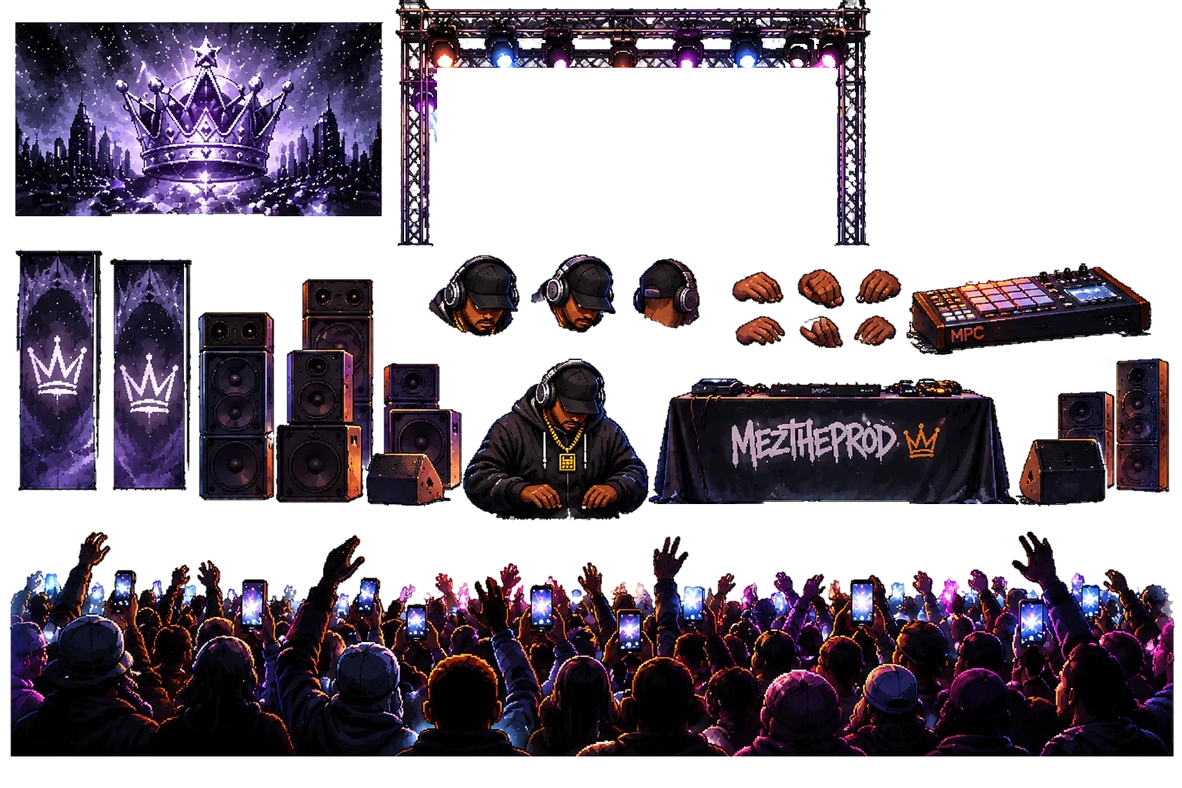
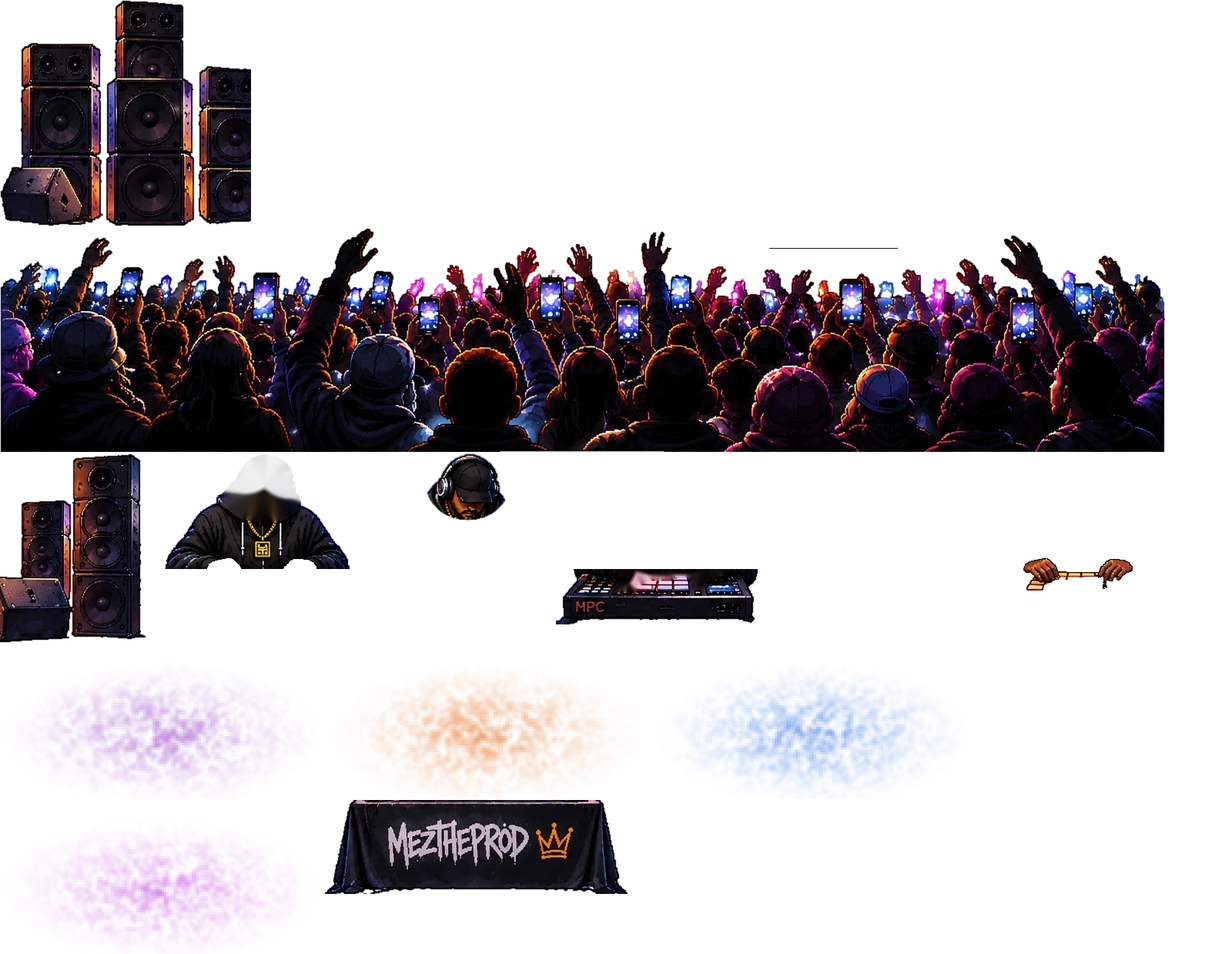
Show: 16:9 scene on the new stage plate, producer split into head/torso/hands/MPC layers, smoke sprites, haze, contact shadows

diff --git a/show.js b/show.js
@@ -4,7 +4,7 @@
    Shared by the SHOW page, the back office Show Maker preview, and the video renderer. */
 (function(){
 'use strict';
-const W=1092,H=790;
+const W=1280,H=720;
 const clamp=(v,a,b)=>Math.max(a,Math.min(b,v)),lerp=(a,b,t)=>a+(b-a)*t;
 function mulberry(a){return()=>{a|=0;a=a+0x6D2B79F5|0;let t=Math.imul(a^a>>>15,1|a);t=t+Math.imul(t^t>>>7,61|t)^t;return((t^t>>>14)>>>0)/4294967296}}
 const fmt=s=>{s=Math.max(0,Math.floor(s));return Math.floor(s/60)+':'+String(s%60).padStart(2,'0')};
@@ -131,48 +131,40 @@ function makeStage(canvas,seed){
  const st={t:0,cam:{z:1,x:0,y:0},energy:.1,cheer:0,nod:0,bounce:0,flash:0,shake:0,hands:[0,0],pads:new Float32Array(12),hearts:0,
   hue:230,fireworks:[],confetti:[],lastHit:-1,hitIdx:0,lastCutBar:-1,lastDrop:-1,fogP:[],endT:-1,lastStartTrack:-2};
  /* a fresh random front-row crowd every time */
- for(let i=0;i<22;i++)st.fogP.push({x:R()*W,y:420+R()*190,r:90+R()*150,vx:(R()-.5)*14,a:.05+R()*.07});
- const L={},C={},seedP=R()*6.28;st.colUp=new Float32Array(160);
- /* the stage is built from the real separate pieces of the artwork sheet (one atlas image) */
- const TR={x:17,y:0,s:1.7},SCR={x:226,y:150,w:640,h:341},SPK={x:-6,b:572,s:.95},MON={x:880,b:572,s:.95},TBL={x:246,y:452,s:1.25},MPCP={x:452,y:432,s:.56},BODY={x:392,b:516,s:1.25},CRW={x:-11,y:585},FXH=[28,215,300,24,296,214,312,300];
- const FIX=[577,651,725,809,892,968,1037].map(sx=>[TR.x+(sx-510)*TR.s,TR.y+74*TR.s]).concat([[TR.x+(1060-510)*TR.s,TR.y+112*TR.s]]);
+ for(let i=0;i<20;i++){const back=i<7;st.fogP.push({back,x:R()*(W+400)-200,y:back?405+R()*55:478+R()*52,s:back?1+R()*.6:1.1+R()*.8,vx:(R()<.5?-1:1)*(5+R()*12),a:back?.4+R()*.2:.5+R()*.25,k:(R()*4)|0,ph:R()*6.28})}
+ const L={},C={},seedP=R()*6.28;st.colUp=new Float32Array(200);
+ /* ---- the show scene: your empty stage plate + the separate pieces from the layer sheet ---- */
+ const PS=W/1672,SCR={x:438,y:136,w:433,h:287},BODY={x:482,y:179,s:1.2},TBL={x:404,y:429,s:1.2},SPK={x:52,b:612,s:.95},MON={x:994,b:612,s:.95},CRW={x:-19,y:485,s:.871};
+ const FIX=[[80,90,320],[345,85,285],[450,95,30],[568,95,212],[1070,95,212],[1192,95,30],[1338,85,285],[1600,90,205]].map(([x,y,h])=>[x*PS,y*PS,h]);
+ const LAS=[[330*PS,662*PS,-1],[1370*PS,662*PS,1]];
  function layersFor(theme){
   if(!S.plate)return null;if(L[theme])return L[theme];
-  const f=VARIANT[theme]||'',im=S.plate.atlas,o=document.createElement('canvas');o.width=im.naturalWidth;o.height=im.naturalHeight;const g=o.getContext('2d');g.filter=f;g.drawImage(im,0,0);return L[theme]=o;
+  const f=VARIANT[theme]||'',mk=im=>{const o=document.createElement('canvas');o.width=im.naturalWidth;o.height=im.naturalHeight;const g=o.getContext('2d');g.filter=f;g.drawImage(im,0,0);return o},P=S.plate;
+  return L[theme]={atlas:mk(P.atlas),stage:mk(P.stage),lights:mk(P.lights)};
  }
- const rc=(g,A,r,x,y,sc,flip)=>{if(flip){g.save();g.translate(x+r[2]*sc,y);g.scale(-1,1);g.drawImage(A,r[0],r[1],r[2],r[3],0,0,r[2]*sc,r[3]*sc);g.restore()}else g.drawImage(A,r[0],r[1],r[2],r[3],x,y,r[2]*sc,r[3]*sc)};
- function backdrop(g){const gr=g.createLinearGradient(0,0,0,H);gr.addColorStop(0,'#0d0820');gr.addColorStop(.55,'#070511');gr.addColorStop(1,'#030208');g.fillStyle=gr;g.fillRect(0,0,W,H);
-  const fl=g.createLinearGradient(0,440,0,610);fl.addColorStop(0,'rgba(90,50,140,0)');fl.addColorStop(1,'rgba(70,34,110,.4)');g.fillStyle=fl;g.fillRect(0,440,W,170)}
- function stageBack(g,A,M,pump){
-  backdrop(g);
-  rc(g,A,M.screen,SCR.x,SCR.y,SCR.w/M.screen[2]);
-  rc(g,A,M.banners[0],176,112,.9);rc(g,A,M.banners[1],W-176-M.banners[1][2]*.9,116,.9);
-  rc(g,A,M.truss,TR.x,TR.y,TR.s);
-  pump=pump||0;
-  {const r=M.speakers,sc=SPK.s*(1+pump*.1),w=r[2]*sc,h=r[3]*sc;rc(g,A,r,SPK.x+(r[2]*SPK.s-w)/2,SPK.b-h,sc)}
-  {const r=M.monitors,sc=MON.s*(1+pump*.1),w=r[2]*sc,h=r[3]*sc;rc(g,A,r,MON.x+(r[2]*MON.s-w)/2,MON.b-h,sc)}
+ const pc=(g,A,k,x,y,sc)=>{const r=S.plate.meta.r[k];g.drawImage(A,r[0],r[1],r[2],r[3],x,y,r[2]*sc,r[3]*sc)};
+ const sz=k=>S.plate.meta.r[k];
+ function stageBase(g,Ly){g.drawImage(Ly.stage,0,0,W,H)}
+ function speakers(g,A,pump){
+  pump=pump||0;{const r=sz('speakers'),sc=SPK.s*(1+pump*.05);pc(g,A,'speakers',SPK.x+r[2]*(SPK.s-sc)/2,SPK.b-r[3]*sc,sc)}
+  {const r=sz('monitors'),sc=MON.s*(1+pump*.05);pc(g,A,'monitors',MON.x+r[2]*(MON.s-sc)/2,MON.b-r[3]*sc,sc)}
  }
- const PADW=p=>{const c=p%4,r=(p/4)|0;return[MPCP.x+(66+(c+.5)*27.4-r*2)*MPCP.s,MPCP.y+(34+(r+.5)*17)*MPCP.s]};
- function producer(g,A,M,po){
-  po=po||{bounce:0,nod:0,hands:[0,0],pads:null,hue:230};
-  /* table with the logo cloth, then the producer behind the pad */
-  rc(g,A,M.table,TBL.x,TBL.y,TBL.s);
-  {const r=M.body,sc=BODY.s,bw=r[2]*sc,bh=r[3]*sc,bx=BODY.x,by=BODY.b-bh,cutS=96;
-   g.save();g.translate(0,BODY.b);g.scale(1,1+po.bounce*.018);g.translate(0,-BODY.b);
-   g.drawImage(A,r[0],r[1]+cutS,r[2],r[3]-cutS,bx,by+cutS*sc,bw,(r[3]-cutS)*sc);
-   g.translate(bx+bw/2,by+cutS*sc);g.rotate(po.nod*.045);g.drawImage(A,r[0],r[1],r[2],cutS+5,-bw/2,-cutS*sc,bw,(cutS+5)*sc);g.restore()}
-  rc(g,A,M.mpc,MPCP.x,MPCP.y,MPCP.s);
-  if(po.pads){g.save();g.globalCompositeOperation='lighter';for(let p=0;p<12;p++){const a=po.pads[p];if(a<.04)continue;const[hx,hy]=PADW(p),gr=g.createRadialGradient(hx,hy,0,hx,hy,17);gr.addColorStop(0,`hsla(${(p*47+po.hue)%360},100%,72%,${Math.min(1,a*1.1)})`);gr.addColorStop(1,'rgba(0,0,0,0)');g.fillStyle=gr;g.fillRect(hx-17,hy-17,34,34)}g.restore()}
-  /* hands: two poses each, a press drops the hand onto the pads */
-  const hs=.54,hw=po.hands,pick=(row,a)=>row[a>.55?1:a>.2?2:0];
-  {const L2=pick(M.handsB,hw[0]),R2=pick(M.handsT,hw[1]);
-   const lx=MPCP.x+96*MPCP.s,rx=MPCP.x+148*MPCP.s,hy=MPCP.y+(36+hw[0]*8)*MPCP.s,hy2=MPCP.y+(36+hw[1]*8)*MPCP.s;
-   rc(g,A,L2,lx-L2[2]*hs/2,hy-L2[3]*hs/2,hs);rc(g,A,R2,rx-R2[2]*hs/2,hy2-R2[3]*hs/2,hs)}
+ /* MPC pads (4 x 3 visible) in the producer piece's own pixels */
+ const PADW=p=>{const c=p%4,r=(p/4)|0;return[BODY.x+(92+c*21)*BODY.s,BODY.y+(156+r*8)*BODY.s]};
+ function producer(g,A,po){
+  po=po||{bounce:0,nod:0,hands:[0,0],pads:null,hue:230,t:0};
+  pc(g,A,'table',TBL.x,TBL.y,TBL.s);
+  const bs=BODY.s,dy=po.bounce*2.4;
+  pc(g,A,'torso',BODY.x,BODY.y+dy,bs);
+  {const px=BODY.x+150*bs,py=BODY.y+dy+86*bs,r=sz('head');g.save();g.translate(px,py+po.nod*2.2);g.rotate(po.nod*.06+Math.sin(po.t*1.3)*.012);g.drawImage(A,r[0],r[1],r[2],r[3],-150*bs,-86*bs,r[2]*bs,r[3]*bs);g.restore()}
+  pc(g,A,'mpc',BODY.x,BODY.y,bs);
+  if(po.pads){g.save();g.globalCompositeOperation='lighter';for(let p=0;p<12;p++){const a=po.pads[p];if(a<.04)continue;const[hx,hy]=PADW(p),gr=g.createRadialGradient(hx,hy,0,hx,hy,15);gr.addColorStop(0,`hsla(${(p*47+po.hue)%360},100%,74%,${Math.min(1,a)})`);gr.addColorStop(1,'rgba(0,0,0,0)');g.fillStyle=gr;g.fillRect(hx-15,hy-15,30,30)}g.restore()}
+  pc(g,A,'hl',BODY.x,BODY.y+dy*.6+po.hands[0]*3.2,bs);pc(g,A,'hr',BODY.x,BODY.y+dy*.6+po.hands[1]*3.2,bs);
  }
- function crowdStatic(g,A,M){const r=M.crowd,sc=1114/r[2];g.drawImage(A,r[0],r[1],r[2],r[3],CRW.x,CRW.y,r[2]*sc,r[3]*sc)}
+ function crowdStatic(g,A){const r=sz('crowd');g.drawImage(A,r[0],r[1],r[2],r[3],CRW.x,CRW.y,r[2]*CRW.s,r[3]*CRW.s)}
  function compFor(theme){
-  if(C[theme])return C[theme];const A=layersFor(theme);if(!A)return null;const M=S.plate.meta,o=document.createElement('canvas');o.width=W;o.height=H;const g=o.getContext('2d');
-  stageBack(g,A,M);producer(g,A,M);crowdStatic(g,A,M);return C[theme]=o;
+  if(C[theme])return C[theme];const Ly=layersFor(theme);if(!Ly)return null;const o=document.createElement('canvas');o.width=W;o.height=H;const g=o.getContext('2d');
+  stageBase(g,Ly);speakers(g,Ly.atlas);producer(g,Ly.atlas);crowdStatic(g,Ly.atlas);return C[theme]=o;
  }
  function crownPath(g,cx,cy,sz){const p=[[-1,.45],[-.92,-.35],[-.4,.15],[0,-.7],[.4,.15],[.92,-.35],[1,.45]];g.beginPath();p.forEach(([x,y],i)=>i?g.lineTo(cx+x*sz,cy+y*sz):g.moveTo(cx+x*sz,cy+y*sz));g.closePath()}
  const vig=document.createElement('canvas');vig.width=W;vig.height=H;{const g=vig.getContext('2d'),gr=g.createRadialGradient(W/2,H/2,H*.42,W/2,H/2,H*.98);gr.addColorStop(0,'rgba(0,0,0,0)');gr.addColorStop(1,'rgba(0,0,0,.6)');g.fillStyle=gr;g.fillRect(0,0,W,H)}
@@ -181,7 +173,7 @@ function makeStage(canvas,seed){
  const burst=(x,y,hue,n)=>{for(let i=0;i<n;i++){const a=R()*6.283,sp=60+R()*170;st.fireworks.push({x,y,vx:Math.cos(a)*sp,vy:Math.sin(a)*sp,l:1,h:hue+(R()-.5)*30})}};
  const flags=()=>{const m=S.script.milestones||[],f={};m.forEach(k=>{if(st.hearts>=k.at)f[k.fx]=true});return f};
  /* camera framings (artwork coordinates, offsets from the centre) */
- const FR={wide:{z:1,x:0,y:0},dj:{z:1.75,x:0,y:-18},left:{z:1.4,x:-190,y:-60},right:{z:1.4,x:190,y:-60},crowd:{z:1.3,x:0,y:190},screen:{z:1.45,x:5,y:-130}};
+ const FR={wide:{z:1,x:0,y:0},dj:{z:1.9,x:0,y:-46},left:{z:1.5,x:-300,y:30},right:{z:1.5,x:300,y:30},crowd:{z:1.35,x:0,y:170},screen:{z:1.6,x:15,y:-80}};
  const SEQ={dynamic:['wide','dj','left','crowd','right','screen','dj','wide'],slow:['wide','dj','screen','wide'],static:['wide']};
  function pickCam(t,seg,bpm,cutsOv){
   const beatLen=60/Math.max(60,bpm||92),bar=Math.floor(t/(beatLen*4)),mode=cutsOv||S.script.fx.cuts||'dynamic';
@@ -228,47 +220,60 @@ function makeStage(canvas,seed){
   if(fg.special&&mode==='live'&&st.bounce>.5)tz*=1.03;
   const kk=1-Math.exp(-dt*((cp.bar!=null&&cp.bar!==st.lastCutBar)?9:2.6));st.lastCutBar=cp.bar;
   st.cam.z=lerp(st.cam.z,tz,kk);st.cam.x=lerp(st.cam.x,tx,kk);st.cam.y=lerp(st.cam.y,ty,kk);
-  const lim=Math.max(0,W/2*(1-1/st.cam.z)),limy=Math.max(0,H/2*(1-1/st.cam.z)),A=layersFor(st.look),M=S.plate&&S.plate.meta;
+  const lim=Math.max(0,W/2*(1-1/st.cam.z)),limy=Math.max(0,H/2*(1-1/st.cam.z)),Ly=layersFor(st.look),A=Ly&&Ly.atlas,MT=S.plate&&S.plate.meta;
   c.save();c.fillStyle='#04030a';c.fillRect(0,0,W,H);
   const sh=st.shake*5;c.translate(W/2+(Math.random()-.5)*sh,H/2+(Math.random()-.5)*sh);c.scale(st.cam.z,st.cam.z);c.translate(-W/2-clamp(st.cam.x,-lim,lim),-H/2-clamp(st.cam.y,-limy,limy));
   const pump=fx.speakers!==false?clamp(bass*.5+st.bounce*.7+st.cheer*.2,0,1):0;
-  if(A){const pv=st.lookT<1&&st.prevLook!==st.look?layersFor(st.prevLook):null;if(pv){stageBack(c,pv,M,pump);c.globalAlpha=st.lookT;stageBack(c,A,M,pump);c.globalAlpha=1}else stageBack(c,A,M,pump);
-   if(st.bounce>.1&&fx.speakers!==false){c.save();c.globalCompositeOperation='lighter';[[SPK.x+160,SPK.b-150,150],[MON.x+100,MON.b-95,100]].forEach(([gx,gy,gr0])=>{const gr=c.createRadialGradient(gx,gy,0,gx,gy,gr0);gr.addColorStop(0,`hsla(${hue},100%,66%,${Math.min(.3,st.bounce*.2)})`);gr.addColorStop(1,'rgba(0,0,0,0)');c.fillStyle=gr;c.fillRect(gx-gr0,gy-gr0,gr0*2,gr0*2)});c.restore()}}
-  else backdrop(c);
-  /* the venue dims in quiet moments and comes up with the music */
-  const dim=clamp(.62-int*.55,0,.6);if(dim>.02){c.fillStyle=`rgba(4,3,14,${dim})`;c.fillRect(0,0,W,590);c.fillStyle=`rgba(4,3,14,${dim*.5})`;c.fillRect(0,590,W,H-590)}
-  /* LED screen: crown glow, spectrum, countdown / thanks text */
+  /* 1. the stage plate (cross-fades between per-beat looks) */
+  if(Ly){const pv=st.lookT<1&&st.prevLook!==st.look?layersFor(st.prevLook):null;if(pv){stageBase(c,pv);c.globalAlpha=st.lookT;stageBase(c,Ly);c.globalAlpha=1}else stageBase(c,Ly)}
+  else{c.fillStyle='#0b0716';c.fillRect(0,0,W,H)}
+  /* 2. the venue dims in quiet moments; the plate's own lights come back up with the music */
+  const dim=clamp(.6-int*.5,0,.58);if(dim>.02){c.fillStyle=`rgba(5,3,14,${dim})`;c.fillRect(0,0,W,H)}
+  if(Ly){c.save();c.globalCompositeOperation='lighter';c.globalAlpha=clamp(int*.42+bass*.22+st.flash*.3,0,.85);c.drawImage(Ly.lights,0,0,W,H);c.restore()}
+  /* 3. LED screen: crown pulse, spectrum, countdown / thanks text */
   {const sx=SCR.x,sy=SCR.y,sw=SCR.w,sh2=SCR.h;c.save();c.beginPath();c.rect(sx,sy,sw,sh2);c.clip();
-   if(mode==='wait'||mode==='end'){c.fillStyle='rgba(6,5,20,.88)';c.fillRect(sx,sy,sw,sh2);c.textAlign='center';c.fillStyle='#fff';c.font='15px "Press Start 2P",monospace';
-    c.fillText(mode==='end'?'SEE YOU NEXT WEEK':(ctl.head||'SHOW STARTS IN'),sx+sw/2,sy+sh2*.36);if(mode==='wait'){c.font='34px "Press Start 2P",monospace';c.fillStyle='#ffd34a';c.shadowColor='#ffb020';c.shadowBlur=14;c.fillText(ctl.text||'--:--',sx+sw/2,sy+sh2*.6);c.shadowBlur=0}}
-   else{c.globalCompositeOperation='lighter';const gr=c.createRadialGradient(sx+sw/2,sy+110,10,sx+sw/2,sy+110,190);gr.addColorStop(0,`hsla(${hue+10},90%,70%,${.18+bass*.35+st.bounce*.22})`);gr.addColorStop(1,'rgba(0,0,0,0)');c.fillStyle=gr;c.fillRect(sx,sy,sw,sh2);
-    if(fg.special&&mode==='live'){c.fillStyle=`hsla(${(T*90)%360},100%,60%,.16)`;c.fillRect(sx,sy,sw,sh2)}
-    const bn=34,bw2=sw/bn;for(let b2=0;b2<bn;b2++){const v=au.fd?au.fd[Math.floor(Math.pow(b2/bn,1.6)*260)]/255:bass*(.4+.6*Math.sin(b2+T*5)**2);c.fillStyle=`hsla(${hue+b2*4},100%,${55+v*18}%,${.3+v*.5})`;c.fillRect(sx+b2*bw2+1,sy+322-v*54,bw2-2,v*54+3)}}
+   if(mode==='wait'||mode==='end'){c.fillStyle='rgba(6,5,20,.86)';c.fillRect(sx,sy,sw,sh2);c.textAlign='center';c.fillStyle='#fff';c.font='14px "Press Start 2P",monospace';
+    c.fillText(mode==='end'?'SEE YOU NEXT WEEK':(ctl.head||'SHOW STARTS IN'),sx+sw/2,sy+sh2*.3);if(mode==='wait'){c.font='30px "Press Start 2P",monospace';c.fillStyle='#ffd34a';c.shadowColor='#ffb020';c.shadowBlur=14;c.fillText(ctl.text||'--:--',sx+sw/2,sy+sh2*.48);c.shadowBlur=0}}
+   else{c.globalCompositeOperation='lighter';const gr=c.createRadialGradient(sx+sw/2,sy+sh2*.42,10,sx+sw/2,sy+sh2*.42,sw*.55);gr.addColorStop(0,`hsla(${hue+10},90%,68%,${.1+bass*.3+st.bounce*.2})`);gr.addColorStop(1,'rgba(0,0,0,0)');c.fillStyle=gr;c.fillRect(sx,sy,sw,sh2);
+    if(fg.special&&mode==='live'){c.fillStyle=`hsla(${(T*90)%360},100%,60%,.14)`;c.fillRect(sx,sy,sw,sh2)}
+    const bn=40,bw2=sw/bn;for(let b2=0;b2<bn;b2++){const v=au.fd?au.fd[Math.floor(Math.pow(b2/bn,1.6)*260)]/255:bass*(.4+.6*Math.sin(b2+T*5)**2);c.fillStyle=`hsla(${hue+b2*4},100%,${55+v*18}%,${.25+v*.5})`;c.fillRect(sx+b2*bw2+1,sy+sh2-4-v*46,bw2-2,v*46+3)}}
    c.restore()}
-  /* moving beams from the rig, brighter with the music */
+  /* 4. fixture flares + soft moving beams (more of them on drops) */
   if(int>.05&&fx.lights!==false){c.save();c.globalCompositeOperation='lighter';
-   FIX.forEach(([x0,y0],i)=>{if(!fg.lights&&i%3===2)return;const sw2=Math.sin(T*(.45+i*.06)+i*1.9)*(.3+(q.seg.preset==='drop'?.18:0))+(i%2?.14:-.14),ang=Math.PI/2+sw2+(i===7?.3:0),len=H*.9,x1=x0+Math.cos(ang)*len,y1=y0+Math.sin(ang)*len,half=11+int*9+bass*9,hue2=FXH[i]+(hue-230)*.25,px=-Math.sin(ang),py=Math.cos(ang);
-    const gr=c.createLinearGradient(x0,y0,x1,y1);gr.addColorStop(0,`hsla(${hue2},100%,72%,${.2*int+bass*.12})`);gr.addColorStop(1,`hsla(${hue2},100%,50%,0)`);
-    c.fillStyle=gr;c.beginPath();c.moveTo(x0-4,y0);c.lineTo(x0+4,y0);c.lineTo(x1+px*half,y1+py*half);c.lineTo(x1-px*half,y1-py*half);c.closePath();c.fill();
-    const g2=c.createRadialGradient(x0,y0,0,x0,y0,26);g2.addColorStop(0,`hsla(${hue2},100%,82%,${.7*int})`);g2.addColorStop(1,'rgba(0,0,0,0)');c.fillStyle=g2;c.fillRect(x0-26,y0-26,52,52)});
+   FIX.forEach(([x0,y0,h0],i)=>{const hue2=h0+(hue-230)*.2,on=fg.lights||i%3!==2;
+    const fl=c.createRadialGradient(x0,y0,0,x0,y0,34+bass*16);fl.addColorStop(0,`hsla(${hue2},100%,86%,${clamp(.25*int+st.bounce*.35,0,.85)})`);fl.addColorStop(1,'rgba(0,0,0,0)');c.fillStyle=fl;c.fillRect(x0-50,y0-50,100,100);
+    if(!on)return;const sw2=Math.sin(T*(.45+i*.06)+i*1.9)*(.22+(q.seg.preset==='drop'?.16:0))+(x0<W/2?-.2:.2),ang=Math.PI/2+sw2,len=H*.8,x1=x0+Math.cos(ang)*len,y1=y0+Math.sin(ang)*len,half=10+int*8+bass*8,px=-Math.sin(ang),py=Math.cos(ang);
+    const gr=c.createLinearGradient(x0,y0,x1,y1);gr.addColorStop(0,`hsla(${hue2},100%,72%,${.1*int+bass*.06})`);gr.addColorStop(.7,`hsla(${hue2},100%,60%,${.03*int})`);gr.addColorStop(1,`hsla(${hue2},100%,50%,0)`);
+    c.fillStyle=gr;c.beginPath();c.moveTo(x0-3,y0);c.lineTo(x0+3,y0);c.lineTo(x1+px*half,y1+py*half);c.lineTo(x1-px*half,y1-py*half);c.closePath();c.fill()});
    c.restore()}
-  /* lasers: unlocked by hearts, strongest on drops */
+  /* 5. lasers from the two emitters on the stage floor: unlocked by hearts, strongest on drops */
   const laserA=P.laser*clamp((st.energy-.22)*2.6,0,1);
-  if(fx.lasers!==false&&fg.lasers&&mode==='live'&&laserA>.05){c.save();c.globalCompositeOperation='lighter';for(let i=0;i<12;i++){const a=-Math.PI/2+(i-5.5)*.17+Math.sin(T*.9+i)*.3,hue3=i%3===0?0:i%3===1?125:190,ox=W/2+(i-5.5)*34;c.strokeStyle=`hsla(${hue3},100%,60%,${.55*laserA})`;c.lineWidth=1.6;c.beginPath();c.moveTo(ox,540);c.lineTo(ox+Math.cos(a)*900,540+Math.sin(a)*900);c.stroke();c.strokeStyle=`hsla(${hue3},100%,60%,${.12*laserA})`;c.lineWidth=7;c.stroke()}c.restore()}
-  /* smoke drifting along the stage */
-  if(fx.fog!==false){c.save();c.globalCompositeOperation='lighter';st.fogP.forEach(f=>{f.x+=f.vx*dt;if(f.x<-f.r)f.x=W+f.r;if(f.x>W+f.r)f.x=-f.r;const a=f.a*P.fog*(.35+int*.7),gr=c.createRadialGradient(f.x,f.y,0,f.x,f.y,f.r);gr.addColorStop(0,`hsla(${hue+f.x*.04},80%,62%,${a})`);gr.addColorStop(1,'rgba(0,0,0,0)');c.fillStyle=gr;c.fillRect(f.x-f.r,f.y-f.r,f.r*2,f.r*2)});c.restore()}
-  /* the producer, table and pad: the body bounces, the head nods, each hand presses on its own hits */
-  if(A)producer(c,A,M,{bounce:st.bounce,nod:st.nod,hands:st.hands,pads:st.pads,hue});
-  /* the crowd: one smooth mesh warp so people sway and wave without tearing; energy follows the music */
+  if(fx.lasers!==false&&fg.lasers&&mode==='live'&&laserA>.05){c.save();c.globalCompositeOperation='lighter';LAS.forEach(([ox,oy,sd],k2)=>{for(let i=0;i<6;i++){const a=-Math.PI/2+sd*(.25+i*.15)+Math.sin(T*.9+i+k2)*.14,hue3=[320,200,280][i%3];c.strokeStyle=`hsla(${hue3},100%,62%,${.55*laserA})`;c.lineWidth=1.6;c.beginPath();c.moveTo(ox,oy);c.lineTo(ox+Math.cos(a)*1100,oy+Math.sin(a)*1100);c.stroke();c.strokeStyle=`hsla(${hue3},100%,60%,${.1*laserA})`;c.lineWidth=7;c.stroke()}});c.restore()}
+  /* smoke sprites: a back bank behind the producer and a front bank between the stage and the crowd */
+  const smoke=back=>{if(fx.fog===false||!A)return;c.save();c.globalCompositeOperation='screen';st.fogP.forEach(f=>{if(f.back!==back)return;if(back===true||back===false){}
+    const r=MT.r['smoke'+f.k],w2=r[2]*f.s*1.3,h2=r[3]*f.s;f.x+=f.vx*dt;if(f.x<-w2-200)f.x=W+200;if(f.x>W+200)f.x=-w2-200;
+    c.globalAlpha=clamp(f.a*P.fog*(.5+int*.55+bass*.2)*(.85+.15*Math.sin(T*.7+f.ph)),0,.9);c.drawImage(A,r[0],r[1],r[2],r[3],f.x,f.y-h2/2+Math.sin(T*.4+f.ph)*4,w2,h2)});c.restore()};
+  smoke(true);
+  /* contact shadows so the gear sits on the floor */
+  {const sh0=(x,y,rx,ry,a)=>{c.save();c.translate(x,y);c.scale(1,ry/rx);const g=c.createRadialGradient(0,0,0,0,0,rx);g.addColorStop(0,`rgba(0,0,0,${a})`);g.addColorStop(1,'rgba(0,0,0,0)');c.fillStyle=g;c.fillRect(-rx,-rx,rx*2,rx*2);c.restore()};
+   sh0(TBL.x+236,TBL.y+150,280,26,.7);sh0(SPK.x+150,SPK.b+2,190,20,.6);sh0(MON.x+115,MON.b+2,150,18,.6)}
+  /* 6. speakers pump on the kick, glow on the hit */
+  if(A){speakers(c,A,pump);
+   if(st.bounce>.1&&fx.speakers!==false){c.save();c.globalCompositeOperation='lighter';[[SPK.x+150,SPK.b-140,150],[MON.x+115,MON.b-95,110]].forEach(([gx,gy,gr0])=>{const gr=c.createRadialGradient(gx,gy,0,gx,gy,gr0);gr.addColorStop(0,`hsla(${hue},100%,66%,${Math.min(.22,st.bounce*.16)})`);gr.addColorStop(1,'rgba(0,0,0,0)');c.fillStyle=gr;c.fillRect(gx-gr0,gy-gr0,gr0*2,gr0*2)});c.restore()}}
+  /* 7. the producer: body bounces, head nods, each hand presses on its own hits, pads flash */
+  if(A)producer(c,A,{bounce:st.bounce,nod:st.nod,hands:st.hands,pads:st.pads,hue,t:T});
+  smoke(false);
+  /* low haze band over the stage floor, lit by the rig */
+  {const g=c.createLinearGradient(0,440,0,640);g.addColorStop(0,'rgba(0,0,0,0)');g.addColorStop(.5,`hsla(${hue+20},70%,60%,${.06+int*.07+bass*.04})`);g.addColorStop(1,'rgba(0,0,0,0)');c.save();c.globalCompositeOperation='screen';c.fillStyle=g;c.fillRect(0,440,W,200);c.restore()}
+  /* 8. the crowd: one smooth mesh warp so people sway and wave without tearing; energy follows the music */
   const E=st.energy;
-  if(A){const cw=M.crowd,sc=1114/cw[2],SW=8,NS=6,sh0=cw[3]/NS,bump=(st.bounce*2.4+st.cheer*6)*(.4+E),amp=E*3.2+.9;
+  if(A){const cw=MT.r.crowd,sc=CRW.s,SW=8,NS=6,sh0=cw[3]/NS,bump=(st.bounce*2.4+st.cheer*6)*(.4+E),amp=E*3.2+.9;
    const off=(sx,w)=>{const n=.55+.45*Math.sin(sx*.021+seedP)*Math.sin(sx*.0073+2.1);return[Math.max(0,Math.sin(sx*.012+T*(2+E*2.2)+seedP))*amp*w*n+bump*w*(.5+.5*Math.sin(sx*.03+T*3)),Math.sin(sx*.017+T*(2.6+E*1.6)+seedP*2)*(.6+E*2.4)*w*w]};
    for(let sx=0;sx<cw[2];sx+=SW){const ww=Math.min(SW,cw[2]-sx);
     for(let j=0;j<NS;j++){const wgt=Math.pow(1-j/(NS-.5),1.5),[up,dx]=off(sx,wgt),sy=j*sh0,pad=j<NS-1?2:0;
-     c.drawImage(A,cw[0]+sx,cw[1]+sy,ww,sh0+pad,CRW.x+sx*sc+dx,CRW.y+sy*sc-up,ww*sc+.6,(sh0+pad)*sc)}
-    st.colUp[Math.min(159,(sx/SW)|0)]=off(sx,.85)[0]}
+     c.drawImage(A,cw[0]+sx,cw[1]+sy,ww,Math.min(sh0+pad,cw[3]-sy),CRW.x+sx*sc+dx,CRW.y+sy*sc-up,ww*sc+.6,Math.min(sh0+pad,cw[3]-sy)*sc)}}
    /* phone screens twinkle (softer once the crowd calms) */
-   if(fx.flash!==false&&M.phones){c.save();c.globalCompositeOperation='lighter';M.phones.forEach((p,i)=>{const sx=p[0]-cw[0],px=CRW.x+sx*sc,wgt=Math.pow(Math.max(0,1-(p[1]-cw[1])/cw[3]),1.5),[up,dx]=off(sx,wgt),py=CRW.y+(p[1]-cw[1])*sc-up,r=Math.max(8,p[2]*sc*1.5),a=(.14+.3*(.5+.5*Math.sin(T*(3+(i%5)*1.3)+i*2.1)))*(.5+(1-E)*.5+(q.seg.preset==='breakdown'?.5:0)),gr=c.createRadialGradient(px+dx,py,0,px+dx,py,r);gr.addColorStop(0,`rgba(190,225,255,${a})`);gr.addColorStop(1,'rgba(0,0,0,0)');c.fillStyle=gr;c.fillRect(px+dx-r,py-r,r*2,r*2)});c.restore()}}
+   if(fx.flash!==false&&MT.phones){c.save();c.globalCompositeOperation='lighter';MT.phones.forEach((p,i)=>{const wgt=Math.pow(Math.max(0,1-p[1]/cw[3]),1.5),[up,dx]=off(p[0],wgt),px=CRW.x+p[0]*sc+dx,py=CRW.y+p[1]*sc-up,r=Math.max(8,p[2]*sc*1.5),a=(.12+.28*(.5+.5*Math.sin(T*(3+(i%5)*1.3)+i*2.1)))*(.5+(1-E)*.5+(q.seg.preset==='breakdown'?.5:0)),gr=c.createRadialGradient(px,py,0,px,py,r);gr.addColorStop(0,`rgba(190,225,255,${a})`);gr.addColorStop(1,'rgba(0,0,0,0)');c.fillStyle=gr;c.fillRect(px-r,py-r,r*2,r*2)});c.restore()}}
   /* strobe flash on drops */
   if(st.flash>.02&&fx.flash!==false){c.fillStyle=`rgba(255,255,255,${Math.min(.5,st.flash*.45)})`;c.fillRect(0,0,W,H)}
   /* fireworks and confetti (unlocked by hearts, plus the finale) */
@@ -295,10 +300,9 @@ function makeStage(canvas,seed){
 
 /* ---------- helpers for loading ---------- */
 async function loadPlate(){
- const base=u=>new URL(u,document.baseURI).href,V='?v=5';
- const atlas=await new Promise(r=>{const i=new Image();i.onload=()=>r(i);i.onerror=()=>r(null);i.src=base('show-atlas.webp'+V)});
- const meta=await fetch(base('show-atlas.json'+V)).then(r=>r.json()).catch(()=>null);
- return(atlas&&meta)?{atlas,meta}:null;
+ const base=u=>new URL(u,document.baseURI).href,V='?v=6',ld=u=>new Promise(r=>{const i=new Image();i.onload=()=>r(i);i.onerror=()=>r(null);i.src=base(u+V)});
+ const [atlas,stage,lights,meta]=await Promise.all([ld('show-atlas.webp'),ld('show-stage.webp'),ld('show-lights.webp'),fetch(base('show-atlas.json'+V)).then(r=>r.json()).catch(()=>null)]);
+ return(atlas&&stage&&lights&&meta)?{atlas,stage,lights,meta}:null;
 }
 async function loadFonts(){await Promise.all(['28px Anton','13px "Press Start 2P"'].map(f=>document.fonts.load(f).catch(()=>{})))}
 async function loadTracks(script,ctx){

diff --git a/showmaker.js b/showmaker.js
@@ -30,14 +30,14 @@ function css(){
 #showmk .row{display:grid;gap:6px;align-items:center}
 #showmk .two{display:grid;grid-template-columns:1fr 1fr;gap:6px}
 #showmk .chk{display:flex;gap:8px;align-items:center;letter-spacing:.1em;margin:6px 0}#showmk .chk input{width:auto}
-#showmk .box{position:relative;width:100%;aspect-ratio:1092/790;background:#05040a;border:1px solid #2a2a2e;max-height:78vh;margin:0 auto}
+#showmk .box{position:relative;width:100%;aspect-ratio:16/9;background:#05040a;border:1px solid #2a2a2e;max-height:78vh;margin:0 auto}
 #showmk .box canvas{width:100%;height:100%;image-rendering:pixelated;display:block}
 #showmk .ctl{display:flex;gap:8px;align-items:center;margin-top:8px;flex-wrap:wrap}#showmk .ctl input[type=range]{flex:1;min-width:140px;accent-color:var(--red)}
 #showmk .time{font:600 12px Montserrat;color:#c9c9ce;min-width:92px;text-align:right}
 #showmk .seg{height:10px;display:flex;margin:6px 0 0;border:1px solid #2a2a2e}#showmk .seg i{display:block;height:100%}
 #showmk .smths{display:flex;flex-wrap:wrap;gap:8px}
 #showmk .smths button{flex:1 1 calc(50% - 8px);min-width:130px;background:#050506;border:2px solid #34343a;padding:4px;cursor:pointer;color:#fff;font:700 10px Montserrat;letter-spacing:.14em}
-#showmk .smths button.on{border-color:var(--red)}#showmk .smths canvas{width:100%;height:auto;aspect-ratio:160/116;display:block;margin-bottom:4px}
+#showmk .smths button.on{border-color:var(--red)}#showmk .smths canvas{width:100%;height:auto;aspect-ratio:16/9;display:block;margin-bottom:4px}
 #showmk .sec{border:1px solid #2a2a2e;margin:10px 0;background:#08080a}
 #showmk .sec summary{cursor:pointer;padding:12px;font:700 11px Montserrat;letter-spacing:.22em;color:var(--gold);list-style:none;display:flex;justify-content:space-between;align-items:center;gap:8px}
 #showmk .sec summary::-webkit-details-marker{display:none}
@@ -141,8 +141,8 @@ function rTracks(){
 const clamp=(v,a,b)=>Math.max(a,Math.min(b,v));
 function spread(){const sc=E.script,n=sc.tracks.length;if(!n)return;const slot=sc.len/n;sc.tracks.forEach((t,i)=>{t.start=Math.round(i*slot);t.end=Math.round((i+1)*slot-(i<n-1?3:0))});rTracks();refreshHits()}
 function rTheme(){
- const el=$q('#smTh');el.innerHTML=Object.keys(M.THEMES).map(k=>`<button data-k="${k}" class="${k===E.script.theme?'on':''}"><canvas width="160" height="116"></canvas>${M.THEMES[k]}</button>`).join('');
- el.querySelectorAll('button').forEach(b=>{const cv=b.querySelector('canvas');if(E.stage){const t=E.stage.themeThumb(b.dataset.k);if(t)cv.getContext('2d').drawImage(t,0,0,160,116)}
+ const el=$q('#smTh');el.innerHTML=Object.keys(M.THEMES).map(k=>`<button data-k="${k}" class="${k===E.script.theme?'on':''}"><canvas width="160" height="90"></canvas>${M.THEMES[k]}</button>`).join('');
+ el.querySelectorAll('button').forEach(b=>{const cv=b.querySelector('canvas');if(E.stage){const t=E.stage.themeThumb(b.dataset.k);if(t)cv.getContext('2d').drawImage(t,0,0,160,90)}
   b.onclick=()=>{E.script.theme=b.dataset.k;applyLooks();E.stage.setTheme(b.dataset.k);rTheme();syncAutoUi()}});
 }
 function rSegs(){

diff --git a/index.html b/index.html
@@ -820,7 +820,7 @@ $('#search').onclick=()=>toast('SEARCH COMING SOON');
 const CAMF={beats:null,kits:[.108,.705,1.8],show:[.287,.15,1.8],about:[.897,.43,1.8]};
 let camT='beats';const cam={fx:.5,fy:.5,z:1};
 function hideSeo(){const e=document.getElementById('seo');if(e)e.style.display='none'}
-async function openShow(){try{if(!window.MZShow)await loadScript('show.js?v=8');if(!window.showPageOpen)await loadScript('showpage.js?v=7');await window.showPageOpen(document.getElementById('shRoot'))}catch(e){toast('SHOW FAILED TO LOAD')}}
+async function openShow(){try{if(!window.MZShow)await loadScript('show.js?v=9');if(!window.showPageOpen)await loadScript('showpage.js?v=8');await window.showPageOpen(document.getElementById('shRoot'))}catch(e){toast('SHOW FAILED TO LOAD')}}
 function showView(v){
  camT=v==='beat'?(pageKind==='p'?'kits':'beats'):v;
  {const dl=$('#deals');if(dl)dl.style.display=(v==='about'||v==='show')?'none':''}
@@ -1397,7 +1397,7 @@ async function boRender(){
  document.getElementById('bo2b').style.display='none';document.getElementById('bo2c').style.display='none';
  if(window.emailClose)emailClose();if(window.showMakerClose)showMakerClose();
  if(tab==='email'){document.querySelector('#bo .bo2').style.display='none';if(window.studioClose)studioClose();try{if(!window.emailOpen)await loadScript('email.js?v=2');await emailOpen()}catch(e){toast('EMAIL STUDIO FAILED TO LOAD')}return}
- if(tab==='show'){document.querySelector('#bo .bo2').style.display='none';if(window.studioClose)studioClose();try{if(!window.MZShow)await loadScript('show.js?v=8');if(!window.showMakerOpen)await loadScript('showmaker.js?v=7');await showMakerOpen()}catch(e){toast('SHOW MAKER FAILED TO LOAD')}return}
+ if(tab==='show'){document.querySelector('#bo .bo2').style.display='none';if(window.studioClose)studioClose();try{if(!window.MZShow)await loadScript('show.js?v=9');if(!window.showMakerOpen)await loadScript('showmaker.js?v=8');await showMakerOpen()}catch(e){toast('SHOW MAKER FAILED TO LOAD')}return}
  if(vid){try{await loadStudio();await studioOpen()}catch(e){toast('VIDEO STUDIO FAILED TO LOAD')}return}
  if(window.studioClose)studioClose();
  document.getElementById('bo2b').style.display=tab==='promo'?'':'none';

diff --git a/showpage.js b/showpage.js
@@ -13,7 +13,7 @@ const HEART=['0110110','1111111','1111111','0111110','0011100','0001000'];
 function css(){
  if(document.getElementById('shCss'))return;const s=document.createElement('style');s.id='shCss';
  s.textContent=`.shw{position:relative}
-.shbox{position:relative;width:min(100%,calc(86vh*1.382));margin:0 auto;aspect-ratio:1092/790;background:#05040a;border:2px solid #1d1a2e;overflow:hidden;box-shadow:0 0 40px rgba(120,60,200,.2)}
+.shbox{position:relative;width:min(100%,calc(86vh*1.778));margin:0 auto;aspect-ratio:16/9;background:#05040a;border:2px solid #1d1a2e;overflow:hidden;box-shadow:0 0 40px rgba(120,60,200,.2)}
 .shbox canvas{position:absolute;inset:0;width:100%;height:100%;image-rendering:pixelated}
 .shbox canvas.hv{pointer-events:none;image-rendering:auto}
 .shnp{position:absolute;left:12px;top:12px;display:flex;gap:10px;align-items:center;background:rgba(8,6,16,.78);border:1px solid #2a2542;padding:8px 12px 8px 8px;backdrop-filter:blur(3px);max-width:46%}
